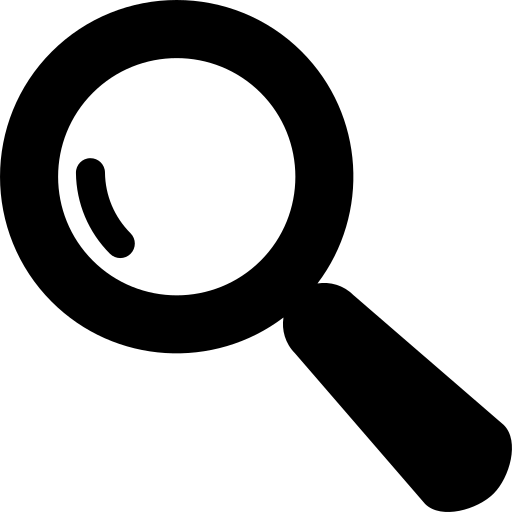
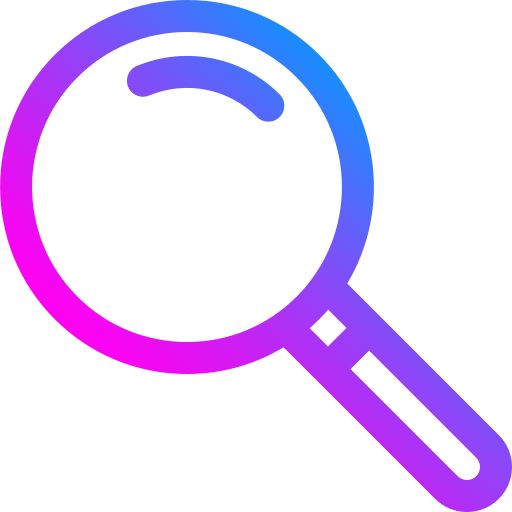
uptade

diff --git a/index.html b/index.html
@@ -4,6 +4,8 @@
     <meta charset="UTF-8">
     <meta http-equiv="X-UA-Compatible" content="IE=edge">
     <meta name="viewport" content="width=device-width, initial-scale=1.0">
+    <script src="https://unpkg.com/boxicons@2.1.4/dist/boxicons.js"></script>
+    <a target="_blank" href="https://icons8.com/icon/131/pesquisar">Pesquisar</a> icon by <a target="_blank" href="https://icons8.com">Icons8</a>
     <link rel="stylesheet" href="style/reset.css">
     <link rel="stylesheet" href="style/index.css">
     <link rel="stylesheet" href="/style/menu.css">
@@ -41,7 +43,7 @@
           <div class="logoContent">
               <div class="logo">
                   <i class='bx bxl-nodejs'></i>
-                  <div class="logoName">Bruno Salmito</div>
+                  <div class="logoName">PostAct</div>
               </div>
               <!-- logo -->
               <i class='bx bx-menu' id="btn"></i>
@@ -50,60 +52,31 @@
           <ul class="nav_list">
               <li>
                   <a href="#">
+                   <!-- <box-icon name="rocket">
                       <i class='bx bx-grid-alt' ></i>
-                      <span class="links_name">Dashboard</span>
-                      <span class="toolipe">Dashboard</span>
+                    </box-icon>-->
+                    <img class="icon" src="/img/home-button.png" alt="" width="28px">
+                      <span class="links_name">Início</span>
+                      <span class="toolipe">Início</span>
                   </a>
               </li>
-  
-              
-  
-              <li>
                   <a href="#">
-                      <i class='bx bx-user' ></i>
-                      <span class="links_name">Usuário</span>
-                      <span class="toolipe">Usuário</span>
-                  </a>
-              </li>
-  
-              <li>
-                  <a href="#">
-                      <i class='bx bx-cog' ></i>
+                    <img class="icon" src="/img/engrenagem.png" alt="" width="35px">
                       <span class="links_name">Configurações</span>
                       <span class="toolipe">Configurações</span>
                   </a>
-              </li>
-  
+              </li> 
+              <a href="#">
+                <img class="icon" src="/img/perfil.png" alt="" width="35px">
+                  <span class="links_name">Configurações</span>
+                  <span class="toolipe">Configurações</span>
+              </a>
+          </li> 
               <li>
                   <a href="#">
-                      <i class='bx bx-folder-open' ></i>
-                      <span class="links_name">Arquivos</span>
-                      <span class="toolipe">Arquivos</span>
-                  </a>
-              </li>
-  
-              <li>
-                  <a href="#">
-                      <i class='bx bx-chat' ></i>
-                      <span class="links_name">Mensagens</span>
-                      <span class="toolipe">Mensagens</span>
-                  </a>
-              </li>
-  
-  
-              <li>
-                  <a href="#">
-                      <i class='bx bx-bar-chart' ></i>
-                      <span class="links_name">Relatórios</span>
-                      <span class="toolipe">Relatórios</span>
-                  </a>
-              </li>
-  
-              <li>
-                  <a href="#">
-                      <i class='bx bx-cart-alt' ></i>
-                      <span class="links_name">Vendas</span>
-                      <span class="toolipe">Vendas</span>
+                    <img class="icon" src="/img/perfil.png" alt="" width="100px">
+                      <span class="links_name">Perfil</span>
+                      <span class="toolipe">Perfil</span>
                   </a>
               </li>
           </ul>
@@ -128,9 +101,9 @@
     <main>
    <!--barra de pesquisa-->   
         <div class="search-bar">
-            <input class="search-tct" type="text" placeholder="Pesquisar" />
-            <button class="right-side-button" @click="rightSide = !rightSide">
-              <img src="/img/lupa.png" alt="lupa" width="20px" height="20px">
+            <input class="search-tct" type="text" placeholder="Pesquisar"/>
+             <button class="right-side-button" @click="rightSide = !rightSide">
+              <img class="lupa" src="/img/lupaIcon.png" alt="lupa" width="20px" height="20px">
             </button>
           </div> 
         <!--Publicar-->
@@ -204,7 +177,7 @@
            </div>
              <ul class="listPost">
                 <li class="post">
-                    <img class="ftPerfil" src="https://w7.pngwing.com/pngs/798/436/png-transparent-computer-icons-user-profile-avatar-profile-heroes-black-profile.png " alt="ftPerfil" width="24px">
+                    <img class="ftPerfil" src="https://w7.pngwing.com/pngs/798/436/png-transparent-computer-icons-user-profile-avatar-profile-heroes-black-profile.png " alt="ftPerfil" width="28px">
                     <div class="post_info">
                             <h2>Nome usuário</h2>
                             <span class="usuario">@nomeUsuario</span>
@@ -223,7 +196,7 @@
               </ul>
             <ul class="listPost">
                 <li class="post">
-                    <img class="ftPerfil" src=" https://w7.pngwing.com/pngs/798/436/png-transparent-computer-icons-user-profile-avatar-profile-heroes-black-profile.png" alt="ftPerfil" width="24px">
+                    <img class="ftPerfil" src=" https://w7.pngwing.com/pngs/798/436/png-transparent-computer-icons-user-profile-avatar-profile-heroes-black-profile.png" alt="ftPerfil" width="28px">
                     <div class="post_info">
                         <h2>Nome usuário</h2>
                         <span>@nomeUsuario</span>

diff --git a/style/index.css b/style/index.css
@@ -9,13 +9,13 @@ body{
     display: flex;
 }
 .status-share {
-    background-color: #1b86f9;
+    background-color: #8e1bf9;
     border: none;
     color: #fff;
     border-radius: 4px;
     padding: 10px 20px;
     margin-left: auto;
-    box-shadow: 0 0 20px #1b86f9;
+    box-shadow: 0 0 20px #8e1bf9;
     cursor: pointer;
 }
 .status-menu-item{
@@ -88,6 +88,8 @@ input{
      color: rgb(255, 255, 255);
      font-weight: 600;
      background-color: transparent;
+     box-shadow: 0 0 10px #b31bf9;
+     margin-top: 10px;
  }
 .search-bar {
     margin-bottom: 20px;
@@ -101,9 +103,9 @@ input{
 }
 /*css do botão*/
 .right-side-button{
-    text-align: right;
     background-color: transparent;
     border: none;
+    margin-top: 10px;
 }
 header{
  flex-basis: 20%;

diff --git a/style/menu.css b/style/menu.css
@@ -19,7 +19,9 @@
     padding: 6px 14px;
     transition: all 0.5s ease;
 }
-
+.icon{
+  
+}
 .sidebar .logoContent .logo {
     width: 100%;
     height: 50px;
@@ -81,7 +83,7 @@
     border: none;
     border-radius: 12px;
     outline: none;
-    background-color: #1d1d31;
+    background-color: #ffffff;
     padding-left: 50px;
     font-size: 18px;
     color: #fff;
